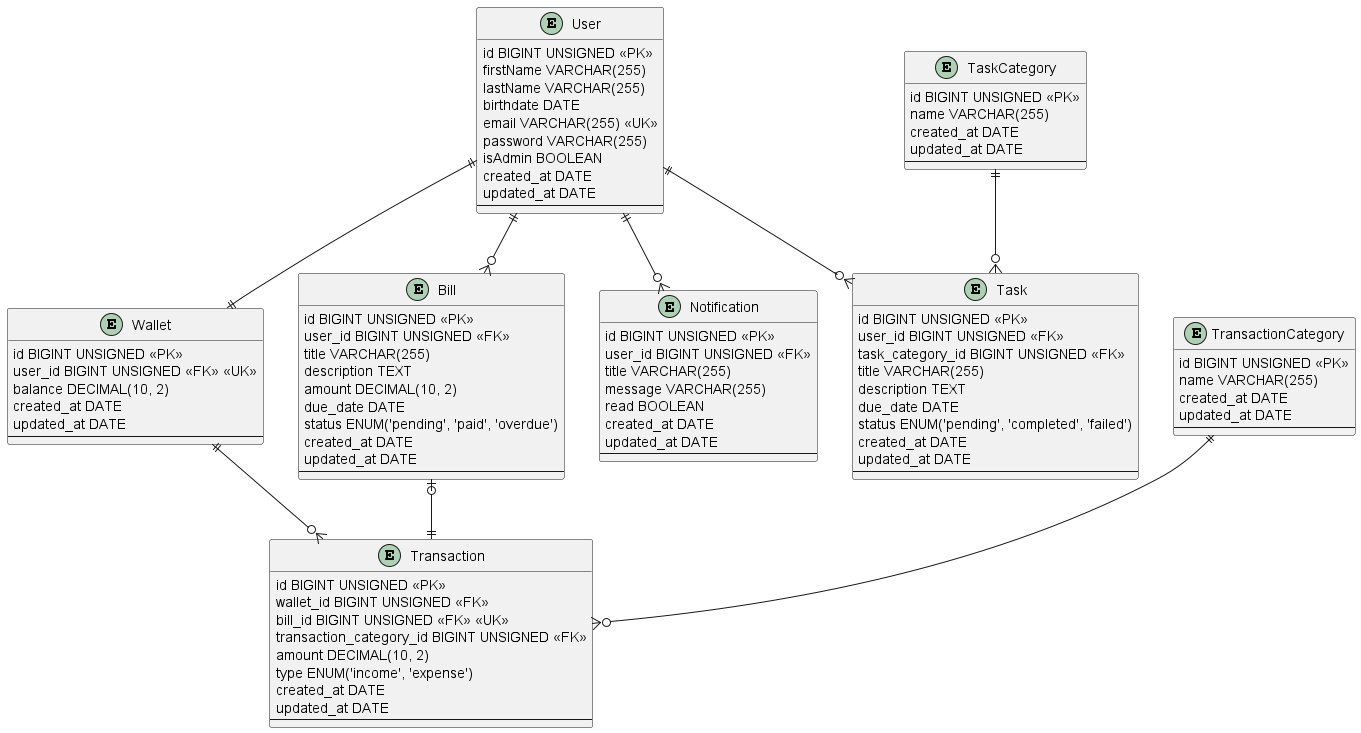
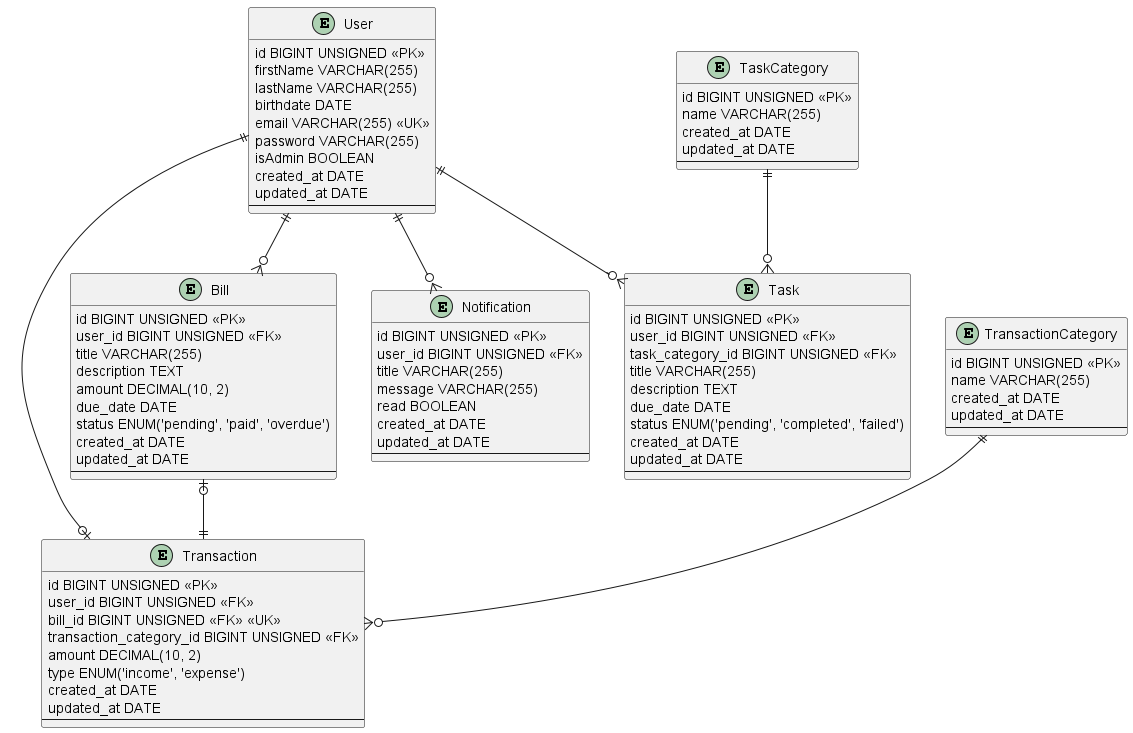
refactor: remove balance column from wallets table
there's no need at all for the column 'balance' to exist: it's possible to get the amount of money the user has from the sum of transactions made that are associated with their wallet. But also, since there's no other attribute in wallets despite the user fk and timestamps, there's also no need for a wallets table: the transactions are now associated directly to the user.

diff --git a/app/Models/Transaction.php b/app/Models/Transaction.php
@@ -2,6 +2,7 @@
 
 namespace App\Models;
 
+use App\Models\User;
 use App\Models\Wallet;
 use App\Models\TransactionCategory;
 use Illuminate\Database\Eloquent\Model;
@@ -14,7 +15,6 @@ class Transaction extends Model
     protected $table = 'transactions';
 
     protected $fillable = [
-        'wallet_id',
         'bill_id',
         'transaction_category_id',
         'amount',
@@ -22,7 +22,6 @@ class Transaction extends Model
     ];
 
     public static $rules = [
-        'wallet_id' => 'required|exists:wallets,id',
         'bill_id' => 'exists:bills,id',
         'transaction_category_id' => 'exists:transaction_categories,id',
         'amount' => 'required|numeric',
@@ -33,9 +32,9 @@ class Transaction extends Model
         'type' => 'expense',
     ];
 
-    public function wallet()
+    public function user()
     {
-        return $this->belongsTo(Wallet::class);
+        return $this->belongsTo(User::class);
     }
 
     public function bill()

diff --git a/database/migrations/2024_05_20_142255_create_transactions_table.php b/database/migrations/2024_05_20_142255_create_transactions_table.php
@@ -9,7 +9,7 @@ return new class extends Migration {
     {
         Schema::create('transactions', function (Blueprint $table) {
             $table->bigIncrements('id');
-            $table->unsignedBigInteger('wallet_id');
+            $table->unsignedBigInteger('user_id');
             $table->unsignedBigInteger('bill_id')->nullable();
             $table->unsignedBigInteger('transaction_category_id')->nullable();
             $table->decimal('amount', 10, 2)->default(0);
@@ -17,9 +17,9 @@ return new class extends Migration {
             $table->timestamps();
 
             $table
-                ->foreign('wallet_id', 'fk_transactions_wallet_id')
+                ->foreign('user_id', 'fk_transactions_user_id')
                 ->references('id')
-                ->on('wallets')
+                ->on('users')
                 ->onDelete('cascade');
             $table
                 ->foreign('bill_id', 'fk_transactions_bill_id')

diff --git a/app/Models/User.php b/app/Models/User.php
@@ -2,6 +2,7 @@
 
 namespace App\Models;
 
+use App\Models\Transaction;
 use Illuminate\Notifications\Notifiable;
 use Illuminate\Contracts\Auth\MustVerifyEmail;
 use Illuminate\Database\Eloquent\Factories\HasFactory;
@@ -58,9 +59,9 @@ class User extends Authenticatable implements MustVerifyEmail
         $this->notify(new ResetPasswordNotification($token));
     }
 
-    public function wallet()
+    public function transactions()
     {
-        return $this->hasOne(Wallet::class);
+        return $this->hasMany(Transaction::class);
     }
 
     public function bills()

diff --git a/database/factories/UserFactory.php b/database/factories/UserFactory.php
@@ -46,11 +46,4 @@ class UserFactory extends Factory
             ]
         );
     }
-
-    public function configure(): static
-    {
-        return $this->afterCreating(
-            fn(User $user) => $user->wallet()->create()
-        );
-    }
 }

diff --git a/app/Http/Controllers/Auth/RegisteredUserController.php b/app/Http/Controllers/Auth/RegisteredUserController.php
@@ -57,8 +57,6 @@ class RegisteredUserController extends Controller
             'password' => Hash::make($request->password),
         ]);
 
-        $user->wallet()->create();
-
         event(new Registered($user));
 
         Auth::login($user);
